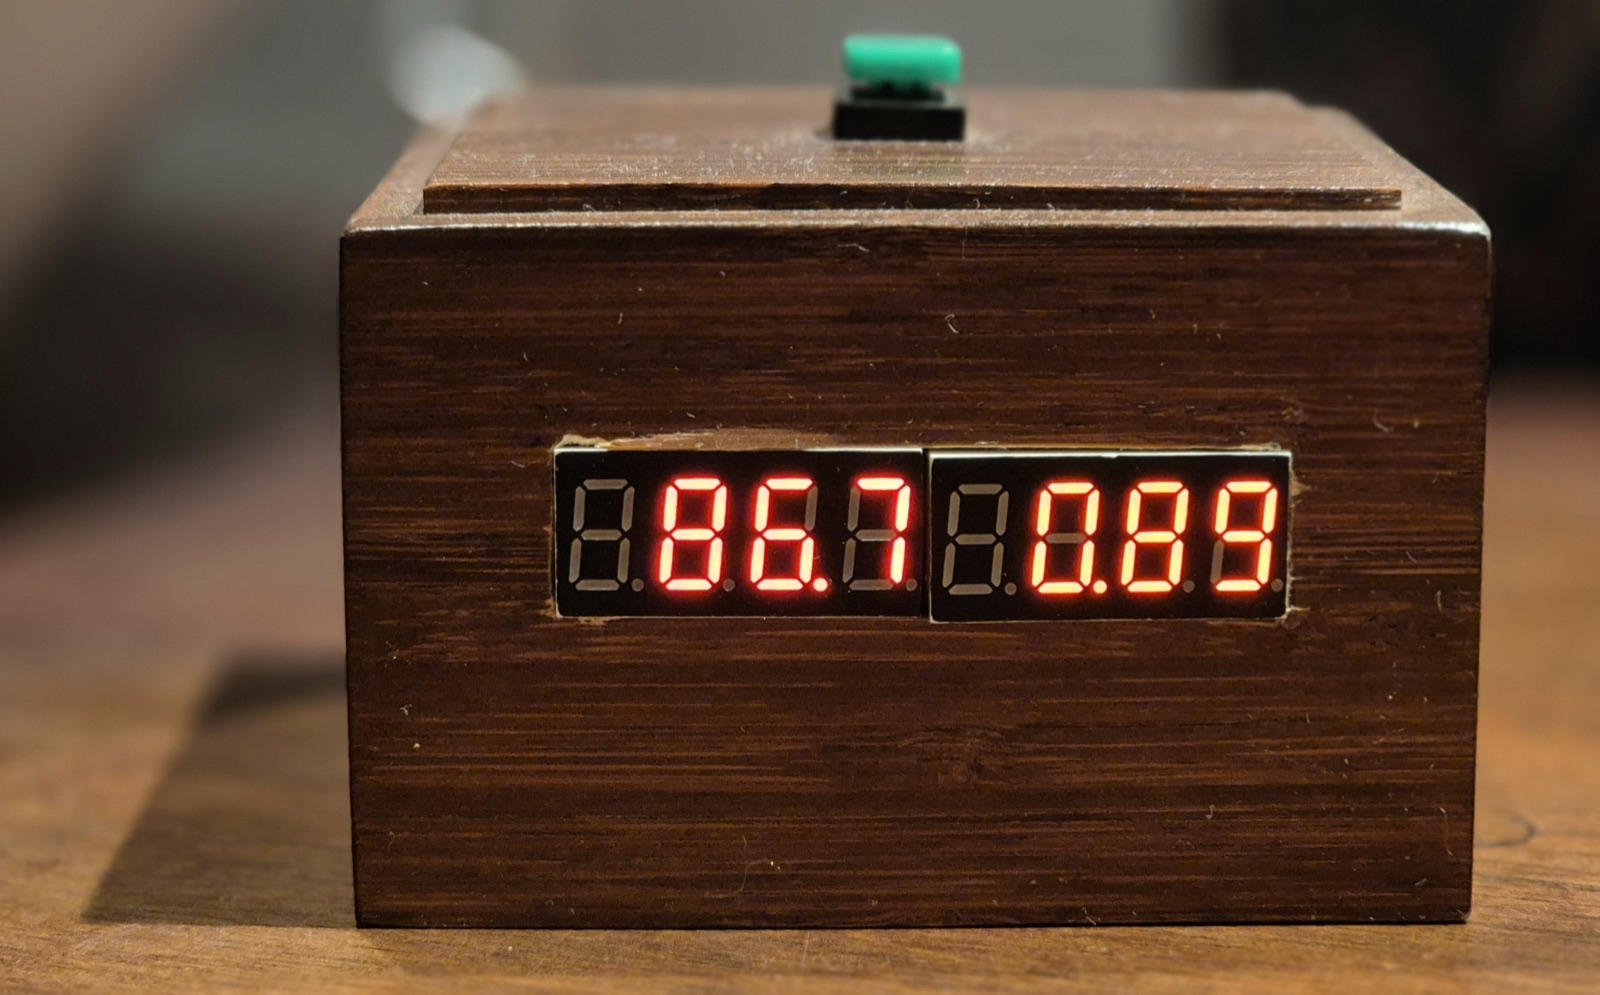
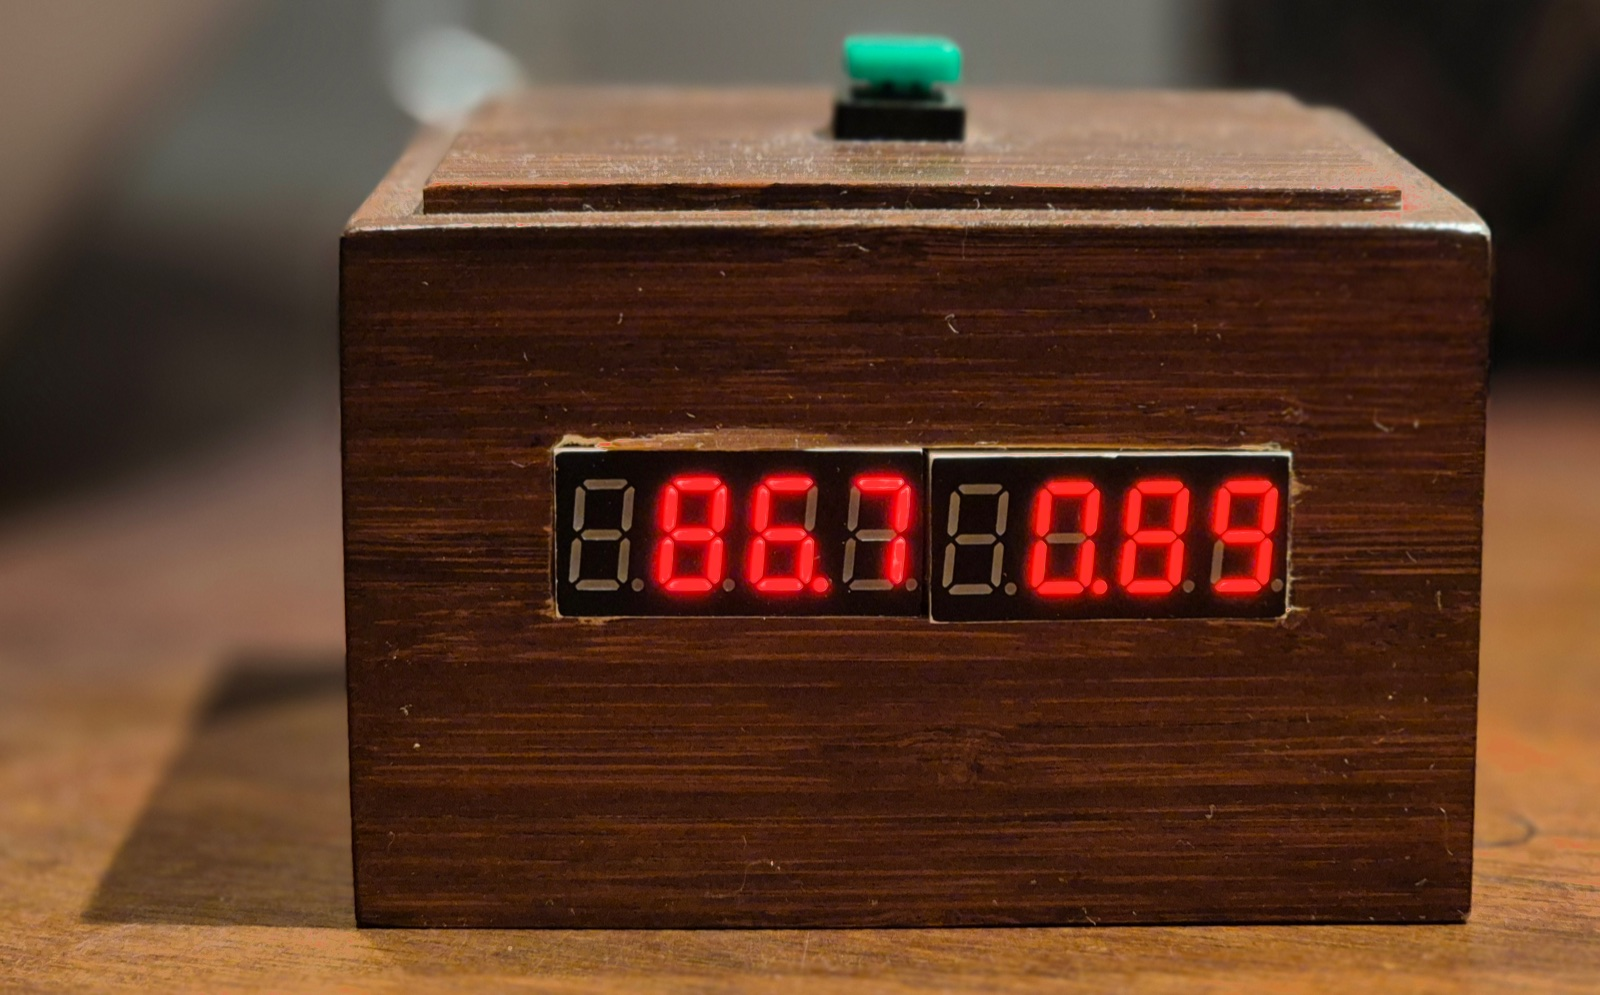
Make the plumbing rule explainable and the Node-RED import actually work.
Treat the tank and its mixer as one appliance and measure outside it: that
is the sentence the plumbing section was missing. The sketch now shows the
tee that feeds the mixer's cold port, because that tee is what decides
whether the UFM sees every litre the Dallas later sees. Say why measuring
after the mixer is still valid — blending trades volume for temperature and
V*dT survives — so nobody goes hunting for a bug that is not there.

Importing energy-balance.json into a stock Node-RED could not have worked:
the subflow keeps the account in a context store named "store", and stock
Node-RED has memory-only context. Give the settings.js block, and warn that
uncommenting the stock example yields a default file store and still nothing
called "store". Say how to actually set waterEnergy, which calibration asked
for without ever explaining, and that restarts are safe.

The board is a plain ESP32-PoE, not the ISO variant; drop -ISO throughout
and use the esp32-poe board id. State the 2026.8.1 ESPHome floor where it is
useful rather than stranding the stock-component note in the intro. Round
the Dallas interval to 2 s so nobody cargo-cults 1.9. Note that charge can
read negative on a gauge and how often that has happened.

Add the UFM on the cold inlet, the passives on perfboard, and the board in
its enclosure. Colour-correct the display photo: the camera clipped the LEDs
to orange-white, so green and blue are pulled down on near-clipped warm
[…]

diff --git a/README.md b/README.md
@@ -6,8 +6,6 @@ This build estimates both with a heat meter on the pipes and an energy balance o
 
 The recipe below is one working installation: an ESP32, a water flow meter, a temperature sensor, an input energy sensor, and two Node-RED subflows. I run this on two tanks; the YAML uses generic names.
 
-This YAML uses ESPHome’s stock [`ufm01`](https://esphome.io/components/ufm01/) component.
-
 ![A small wooden box with two red seven-segment displays reading 86.7 and 0.89, and a green button on top](hot-water-heat-meter/charge-display.jpg)
 
 *86.7 % of a tank left. The box is the easy part — this article is about where that number comes from. The second display and the green button are a bonus; they come back at the end.*
@@ -50,7 +48,7 @@ I had an electrician do the mains and a plumber do the tank connections.
 
 | Part | Role |
 |------|------|
-| Olimex ESP32-POE-ISO | ESPHome, Ethernet |
+| Olimex ESP32-PoE | ESPHome, Ethernet |
 | ScioSense UFM-01 | Accumulated flow (L) + **cold temperature** |
 | DS18B20 | **Hot temperature** (pipe surface) |
 | 10 µF on UFM 5 V–GND | Supply bypass |
@@ -58,11 +56,19 @@ I had an electrician do the mains and a plumber do the tank connections.
 | 5.1 kΩ | Dallas pull-up to 3.3 V |
 | Energy sensor, increasing, in kWh | **Input energy** (I used three Shelly Pro 2PM) |
 
-*[Photo: UFM-01 on the cold inlet, flow arrow visible.]*
+![The UFM-01, a small black oval module, fitted inline in a copper pipe between two brass compression fittings, with a brass mixing valve above it](hot-water-heat-meter/ufm-on-cold-inlet.jpg)
 
-*[Photo: DS18B20 on the usage-side hot pipe, close to the tank; mixer under the tank in the same frame if it reads.]*
+*The UFM-01 — the black oval — inline on the cold inlet between two compression fittings. The mixer is the brass and black assembly at the top left, so the meter sits upstream of it on the common cold supply. This photo and the board below are from different tanks; the recipe is the same on both.*
 
-*[Photo: ESP32-POE-ISO, UART divider, Dallas pull-up.]*
+*[Photo: DS18B20 on the usage-side hot pipe, close to the tank.]*
+
+![A small blue perfboard carrying three resistors, wired to an Olimex ESP32-PoE board lying beside it on graph paper](hot-water-heat-meter/divider-and-pullup.jpg)
+
+*Where the passives live: the UART divider and the Dallas pull-up on a scrap of perfboard, wired out beside the ESP32-PoE, before any of it went into an enclosure. The silkscreen reads plain `ESP32-PoE` — the ISO variant is pin-identical if that is what you have.*
+
+![An Olimex ESP32-PoE board wired up inside a white weatherproof enclosure, with an Ethernet socket and a grey RJ11 socket](hot-water-heat-meter/esp32-in-enclosure.jpg)
+
+*The ESP32-PoE in its box on the other tank, Ethernet in at the left. The grey socket on the right is an RJ11 that carries the Dallas out to the pipe. The red and green wash is the room lighting, not the board.*
 
 *[Photo, optional: the three Shellies — this is how I made input energy, not a wiring tutorial.]*
 
@@ -70,13 +76,20 @@ I had an electrician do the mains and a plumber do the tank connections.
 
 *[Figure: plumbing schematic — same as the sketch below, from a photo.]*
 
+**Treat the water heater and the mixer under it as one appliance.** Cold water goes in at one end, hot water comes out at the other, and everything in between — the tank, the mixer, the pipes joining them — is inside that appliance. Measure where the water crosses the outer edge: flow and cold temperature on the pipe going in, hot temperature on the pipe coming out. A sensor placed inside only sees part of the water.
+
 ```text
-                 ┌──── mixer / thermostat under the tank ────┐
-cold supply ──UFM┤                                           ├Dallas── taps
-                 └──────────────── tank ─────────────────────┘
+                        ┌──────────┐
+cold supply ──UFM──┬────┤   tank   ├──hot───┐
+                   │    └──────────┘        │
+                   │                   ┌────┴────┐
+                   └───── cold ────────┤  mixer  ├──Dallas── taps
+                                       └─────────┘
 ```
 
-The UFM is on the **cold pipe into that mixer**, the Dallas on the **hot pipe out of it**, close to the tank. That is the water the energy balance is about — on the house side of the mixer. If the mixer adds extra cold water *after* the UFM, the volume at the UFM is not the volume past the Dallas. Put the UFM on the shared cold supply so the two match, or accept that you are only metering tank throughput.
+The rule is that **the UFM must see every litre that later passes the Dallas**. Get that right and the mixer stops mattering: blending does not destroy energy, it trades a smaller volume of hotter water for a larger volume of cooler water, and \(V \cdot \Delta T\) comes out the same. Measuring on the house side of the mixer still measures what left the tank.
+
+So put the UFM **upstream of the tee that feeds the mixer's cold port**, on the common cold supply, as in the sketch. Every litre through it is then a litre out of the taps. Put it downstream instead, on the branch that only feeds the tank, and the cold going straight to the mixer bypasses it — you are metering tank throughput, and the account under-debits by however much cold the mixer blends in. That is not a rare case; blending is what the mixer is for.
 
 - The UFM measures flow *and* temperature. Here that temperature is \(T_\text{cold}\). The module is rated to 60 °C. Both pipes may stay under that, and the volume change from heat is small, so the hot pipe would work. I still put it on the cold side. You can swap: UFM on the hot pipe (\(T_\text{hot}\)) and the Dallas on the cold pipe (\(T_\text{cold}\)).
 - A sensor *inside* the pipe would be better than a pipe-surface DS18B20. I tried wrapping the sensor; I am not sure it helps.
@@ -84,7 +97,7 @@ The UFM is on the **cold pipe into that mixer**, the Dallas on the **hot pipe ou
 
 Not every tank has a mixer under it. Then there is only a cold inlet and a hot outlet. Put the UFM on the cold inlet and the Dallas on the hot outlet, both close to the tank. Without a mixer, there is no before or after.
 
-### UART and Dallas (ESP32-POE-ISO)
+### UART and Dallas (ESP32-PoE)
 
 UFM-01 is 5 V, UART **2400 8E1**. The ESP32 is 3.3 V.
 
@@ -99,7 +112,9 @@ Same idea on any other board; only the GPIO numbers change.
 
 ## ESPHome
 
-Self-contained config (no packages). Pins are POE-ISO; names are generic. Same file: [`water-heater.yaml`](hot-water-heat-meter/water-heater.yaml). Set an OTA password and API encryption before the device is on the network.
+The [`ufm01`](https://esphome.io/components/ufm01/) component ships with ESPHome, so there is nothing external to add — but you want **2026.8.1 or newer**, which is what I run. Older releases are missing the startup reset retry that gets the meter talking again after a reboot.
+
+Self-contained config (no packages). Pins are for the ESP32-PoE, and the other boards in that family share the pinout, so the same `esp32-poe` board id covers them. Names are generic. Same file: [`water-heater.yaml`](hot-water-heat-meter/water-heater.yaml). Set an OTA password and API encryption before the device is on the network.
 
 ```yaml
 esphome:
@@ -107,7 +122,7 @@ esphome:
   friendly_name: Water heater
 
 esp32:
-  board: esp32-poe-iso
+  board: esp32-poe
   framework:
     type: arduino
 
@@ -152,7 +167,7 @@ one_wire:
 sensor:
   - platform: dallas_temp
     name: Hot temperature
-    update_interval: 1.9s
+    update_interval: 2s # a second or two; fast enough to follow a draw
     one_wire_id: bus1
 
   - platform: ufm01
@@ -197,6 +212,17 @@ If flow ever goes unavailable while `empty_tube` is *not* set, the meter has sto
 ## The model in Node-RED
 
 You need the Home Assistant WebSocket nodes (`node-red-contrib-home-assistant-websocket`). Import [`hot-water-usage.json`](hot-water-heat-meter/hot-water-usage.json) and [`energy-balance.json`](hot-water-heat-meter/energy-balance.json). After import, set the Home Assistant server on the HA nodes inside each subflow, then set the env vars below.
+
+Energy balance keeps the account in a context store named `store`, so that it survives a restart of Node-RED. Stock Node-RED has no such store — context is in memory only — so add one to `settings.js` before you import, and restart:
+
+```js
+contextStorage: {
+    store: { module: "localfilesystem" },
+    default: { module: "memory" },
+},
+```
+
+The name matters. Stock `settings.js` has a commented-out example, but uncommenting it gives you a *default* file store and still nothing called `store`, and the subflow will have nowhere to keep the account. The variable is called `waterEnergy`. Once the store exists, the context sidebar in the editor will show you its value. To *change* it, wire an inject node into a change node that sets that context property — you will want that once during calibration.
 
 The JSON files are the two subflows only. You still wire them on the flow:
 
@@ -255,6 +281,8 @@ $eInKWh := $eInJ / 1000 / 3600;
 
 The delay node is 15 s in the JSON I attached. Change it after you look at your graph.
 
+Only increases count, which is what makes restarts safe. If the meter or Node-RED restarts and accumulated flow goes back to zero, that arrives as a single negative step, it is dropped, and counting resumes from the new value. You lose at most the water drawn while it was away.
+
 *[Graph: one draw — flow, hot temperature, cold temperature. Annotate the lag (~15 s here).]*
 
 ### Energy balance
@@ -291,7 +319,7 @@ Charge (step 4 above), with `estimatedFullEnergy` = 21 kWh:
 ```
 
 - `sensor.water_heater_energy_deficit` — in kWh, state class measurement. It rarely sits at exactly 0. Do not add it to the Energy dashboard; input energy is already there.
-- `sensor.water_heater_charge` — %, device class battery is fine.
+- `sensor.water_heater_charge` — %, device class battery is fine. It can read negative, and a gauge card takes that in its stride: the needle sits at the bottom and the number still reads true.
 
 ---
 
@@ -319,7 +347,7 @@ An unused night is a start if you are in a hurry, but it is not enough. Leave th
 
 After a known draw, does charge drop in line with the hot water you actually used? Start \(k = 1\), then raise it if the formula is under-debiting. I started too high (**1.2**) and walked down to about **1.05–1.10**.
 
-**Leave the 0-clamp off** until this is done so you can see overshoot. If the account runs away during that period, reset it to 0 by hand once. Then turn the clamp on.
+**Leave the 0-clamp off** until this is done so you can see overshoot. If the account runs away during that period, reset it to 0 by hand once — inject into a change node that sets `waterEnergy`, as above. Then turn the clamp on.
 
 *[Graph: clamp off — energy deficit allowed above 0, slight surplus visible.]*
 
@@ -345,9 +373,9 @@ I had a working prototype in November 2024 and both production tanks from the en
 
 I do not correct the account by hand in normal operation. I did that while commissioning and when something was broken. In operation the 0-clamp *is* the calibration, because the balance is a little on the positive side.
 
-**The bottom of the scale depends on how you got there.** That is the tank, not the meter. Come down from full in one go — a bath, or showers back to back — and there is little mixing, especially in a vertical tank: the top stays hot, and you will still be drawing hot water well below 0 %. Drift down slowly instead, with no heating for a long time, and the whole tank cools together; you can be sitting at 20 % with water that is already disappointing. Same number, different water. Nothing here can fix that, and it is worth knowing before you lean on the bottom of the scale.
+**The bottom of the scale depends on how you got there.** That is the tank, not the meter. Come down from full in one go — a bath, or showers back to back — and there is little mixing, especially in a vertical tank: the top stays hot, and you will still be drawing hot water well below 0 %. Drift down slowly instead, with no heating for a long time, and the whole tank cools together; you can be sitting at 20 % with water that is already disappointing. Same number, different water. Nothing here can fix that, and it is worth knowing before you trust that last stretch. It has happened a handful of times here in eighteen months: rare, but not theoretical.
 
-The YAML in this article is for the Ethernet board (ESP32-POE-ISO). The same sensors ran on a D1 mini first, and I also run one tank on an ESP32-C6 (Thread). The UART divider and Dallas pull-up stay; GPIOs change.
+The YAML in this article is for the Ethernet board (ESP32-PoE). The same sensors ran on a D1 mini first, and I also run one tank on an ESP32-C6 (Thread). The UART divider and Dallas pull-up stay; GPIOs change.
 
 **Shower counter (application, not required).** Hot water usage is already an energy debit. Accumulating `−payload` into a counter made draws visible. That got my kids to use a lot less water. Add that node on the output of Hot water usage if you want it; it is not part of the heat meter.
 
@@ -359,7 +387,7 @@ That is the box at the top of this article: a D1 mini, one eight-digit MAX7219 d
 
 | File | What |
 |------|------|
-| [`water-heater.yaml`](hot-water-heat-meter/water-heater.yaml) | ESPHome, ESP32-POE-ISO |
+| [`water-heater.yaml`](hot-water-heat-meter/water-heater.yaml) | ESPHome, ESP32-PoE |
 | [`hot-water-usage.json`](hot-water-heat-meter/hot-water-usage.json) | Node-RED subflow |
 | [`energy-balance.json`](hot-water-heat-meter/energy-balance.json) | Node-RED subflow |
 | [`charge-display.yaml`](hot-water-heat-meter/charge-display.yaml) | ESPHome, optional counter display (not part of the heat meter) |
